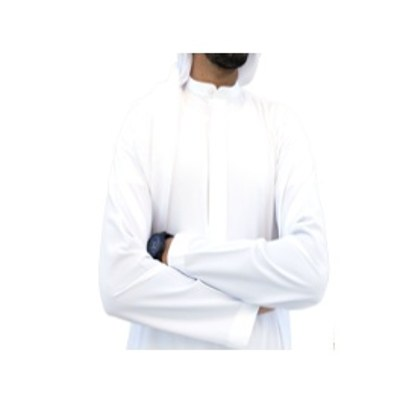
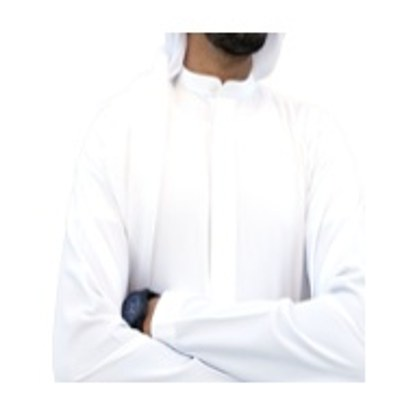
POS item photos: add 15 catalog photos (cropped + centered)
Downloaded the supplied product images, auto-cropped to just the garment
(removed labels/borders) and centered each on white. Attached to the matching
price-list items: dishdasha_summer, ghutra, shirt, tshirt, short, jacket,
men_suit_2, cap, dress, blouse, abaya, hijab, duvet_double, sheet_double,
pillow_case.

diff --git a/src/lib/priceList.ts b/src/lib/priceList.ts
@@ -43,20 +43,20 @@ export const PRICE_CATEGORIES: PriceCategory[] = [
     items: [
       { key: "dishdasha_summer", en: "Summer Dishdasha", ar: "دشداشة صيفية", prices: p(700, 750, 400), image: "/items/dishdasha_summer.jpg" },
       { key: "dishdasha_winter", en: "Winter Dishdasha", ar: "دشداشة شتوية", prices: p(900, 900, 500) },
-      { key: "ghutra", en: "Ghutra / Shemagh", ar: "غترة / شماغ", prices: p(400, 500, 300) },
-      { key: "shirt", en: "Shirt", ar: "قميص", prices: p(600, 750, 300) },
-      { key: "tshirt", en: "T-Shirt", ar: "تي شرت", prices: p(600, 1000, 300) },
-      { key: "short", en: "Short", ar: "شورت", prices: p(500, 750, 250) },
+      { key: "ghutra", en: "Ghutra / Shemagh", ar: "غترة / شماغ", prices: p(400, 500, 300), image: "/items/ghutra.jpg" },
+      { key: "shirt", en: "Shirt", ar: "قميص", prices: p(600, 750, 300), image: "/items/shirt.jpg" },
+      { key: "tshirt", en: "T-Shirt", ar: "تي شرت", prices: p(600, 1000, 300), image: "/items/tshirt.jpg" },
+      { key: "short", en: "Short", ar: "شورت", prices: p(500, 750, 250), image: "/items/short.jpg" },
       { key: "sports_shirt", en: "Sports Shirt", ar: "قميص رياضي", prices: p(900, 1000, 500) },
       { key: "sweatpants", en: "Sweatpants", ar: "بنطلون رياضي", prices: p(600, 750, 300) },
       { key: "tracksuit", en: "Tracksuit", ar: "بدلة رياضة", prices: p(1500, 1750, 800) },
       { key: "military_suit", en: "Military Suit", ar: "بدلة عسكرية", prices: p(2000, 2000, 1000) },
-      { key: "jacket", en: "Jacket", ar: "جاكيت", prices: p(1500, 1500, 750) },
-      { key: "men_suit_2", en: "Men Suit (2 pcs)", ar: "بدلة رجالية (قطعتين)", prices: p(2000, 2000, 1250) },
+      { key: "jacket", en: "Jacket", ar: "جاكيت", prices: p(1500, 1500, 750), image: "/items/jacket.jpg" },
+      { key: "men_suit_2", en: "Men Suit (2 pcs)", ar: "بدلة رجالية (قطعتين)", prices: p(2000, 2000, 1250), image: "/items/men_suit_2.jpg" },
       { key: "men_suit_3", en: "Men Suit (3 pcs)", ar: "بدلة رجالية (٣ قطع)", prices: p(2500, 2500, 1500) },
       { key: "overcoat", en: "Over Coat", ar: "بالطو", prices: p(2000, 2500, 1250) },
       { key: "tie", en: "Tie", ar: "ربطة عنق", prices: p(500, 500, 250) },
-      { key: "cap", en: "Cap", ar: "طاقية / قحفية", prices: p(100, null, null) },
+      { key: "cap", en: "Cap", ar: "طاقية / قحفية", prices: p(100, null, null), image: "/items/cap.jpg" },
     ],
   },
   {
@@ -65,14 +65,14 @@ export const PRICE_CATEGORIES: PriceCategory[] = [
     ar: "نسائي",
     kind: "garment",
     items: [
-      { key: "dress", en: "Normal Dress", ar: "فستان عادي", prices: p(1500, 1500, 750) },
-      { key: "blouse", en: "Normal Blouse", ar: "بلوزة عادية", prices: p(750, 1000, 400) },
+      { key: "dress", en: "Normal Dress", ar: "فستان عادي", prices: p(1500, 1500, 750), image: "/items/dress.jpg" },
+      { key: "blouse", en: "Normal Blouse", ar: "بلوزة عادية", prices: p(750, 1000, 400), image: "/items/blouse.jpg" },
       { key: "blouse_silk", en: "Silk Blouse", ar: "بلوزة حرير", prices: p(1250, 1250, 600) },
       { key: "skirt", en: "Normal Skirt", ar: "تنورة عادية", prices: p(1000, 1250, 600) },
       { key: "skirt_silk", en: "Silk Skirt", ar: "تنورة حرير", prices: p(1500, 1500, 1000) },
       { key: "ladies_suit_2", en: "Ladies Suit (2 pcs)", ar: "بدلة نسائية (قطعتين)", prices: p(2000, 1250, 1250) },
-      { key: "abaya", en: "Abaya", ar: "عباية", prices: p(1250, 2000, 750) },
-      { key: "hijab", en: "Scarf / Hijab", ar: "حجاب", prices: p(600, 750, 350) },
+      { key: "abaya", en: "Abaya", ar: "عباية", prices: p(1250, 2000, 750), image: "/items/abaya.jpg" },
+      { key: "hijab", en: "Scarf / Hijab", ar: "حجاب", prices: p(600, 750, 350), image: "/items/hijab.jpg" },
     ],
   },
   {
@@ -92,11 +92,11 @@ export const PRICE_CATEGORIES: PriceCategory[] = [
     kind: "garment",
     items: [
       { key: "duvet_single", en: "Duvet / Blanket (Single)", ar: "لحاف / بطانية (مفرد)", prices: p(2000, 2000, null) },
-      { key: "duvet_double", en: "Duvet / Blanket (Double)", ar: "لحاف / بطانية (مزدوج)", prices: p(2500, 2500, null) },
+      { key: "duvet_double", en: "Duvet / Blanket (Double)", ar: "لحاف / بطانية (مزدوج)", prices: p(2500, 2500, null), image: "/items/duvet_double.jpg" },
       { key: "sheet_single", en: "Bed Sheet (Single)", ar: "شرشف (مفرد)", prices: p(750, 1000, 400) },
-      { key: "sheet_double", en: "Bed Sheet (Double)", ar: "شرشف (مزدوج)", prices: p(1000, 1250, 600) },
+      { key: "sheet_double", en: "Bed Sheet (Double)", ar: "شرشف (مزدوج)", prices: p(1000, 1250, 600), image: "/items/sheet_double.jpg" },
       { key: "pillow", en: "Pillow", ar: "مخدة", prices: p(750, 1000, null) },
-      { key: "pillow_case", en: "Pillow Case", ar: "وجه مخدة", prices: p(300, 500, 250) },
+      { key: "pillow_case", en: "Pillow Case", ar: "وجه مخدة", prices: p(300, 500, 250), image: "/items/pillow_case.jpg" },
     ],
   },
   {
